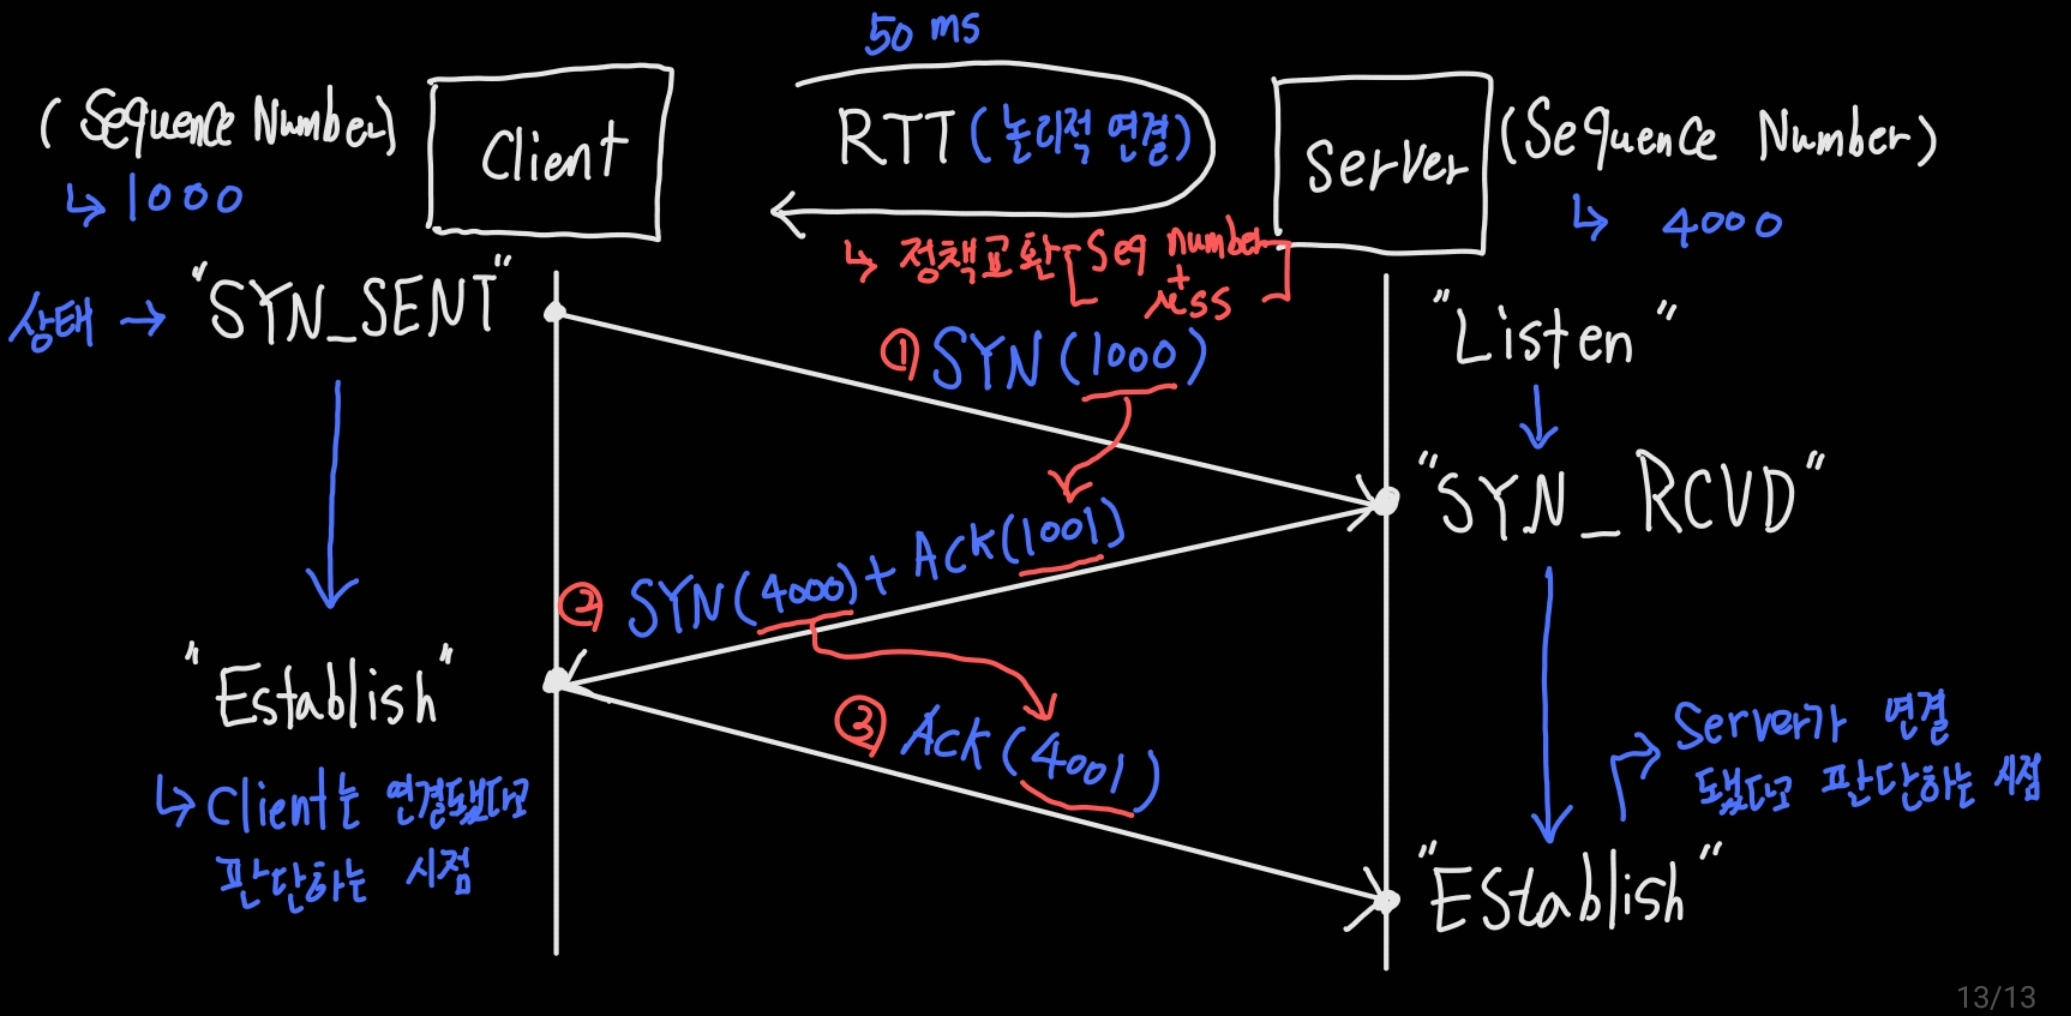
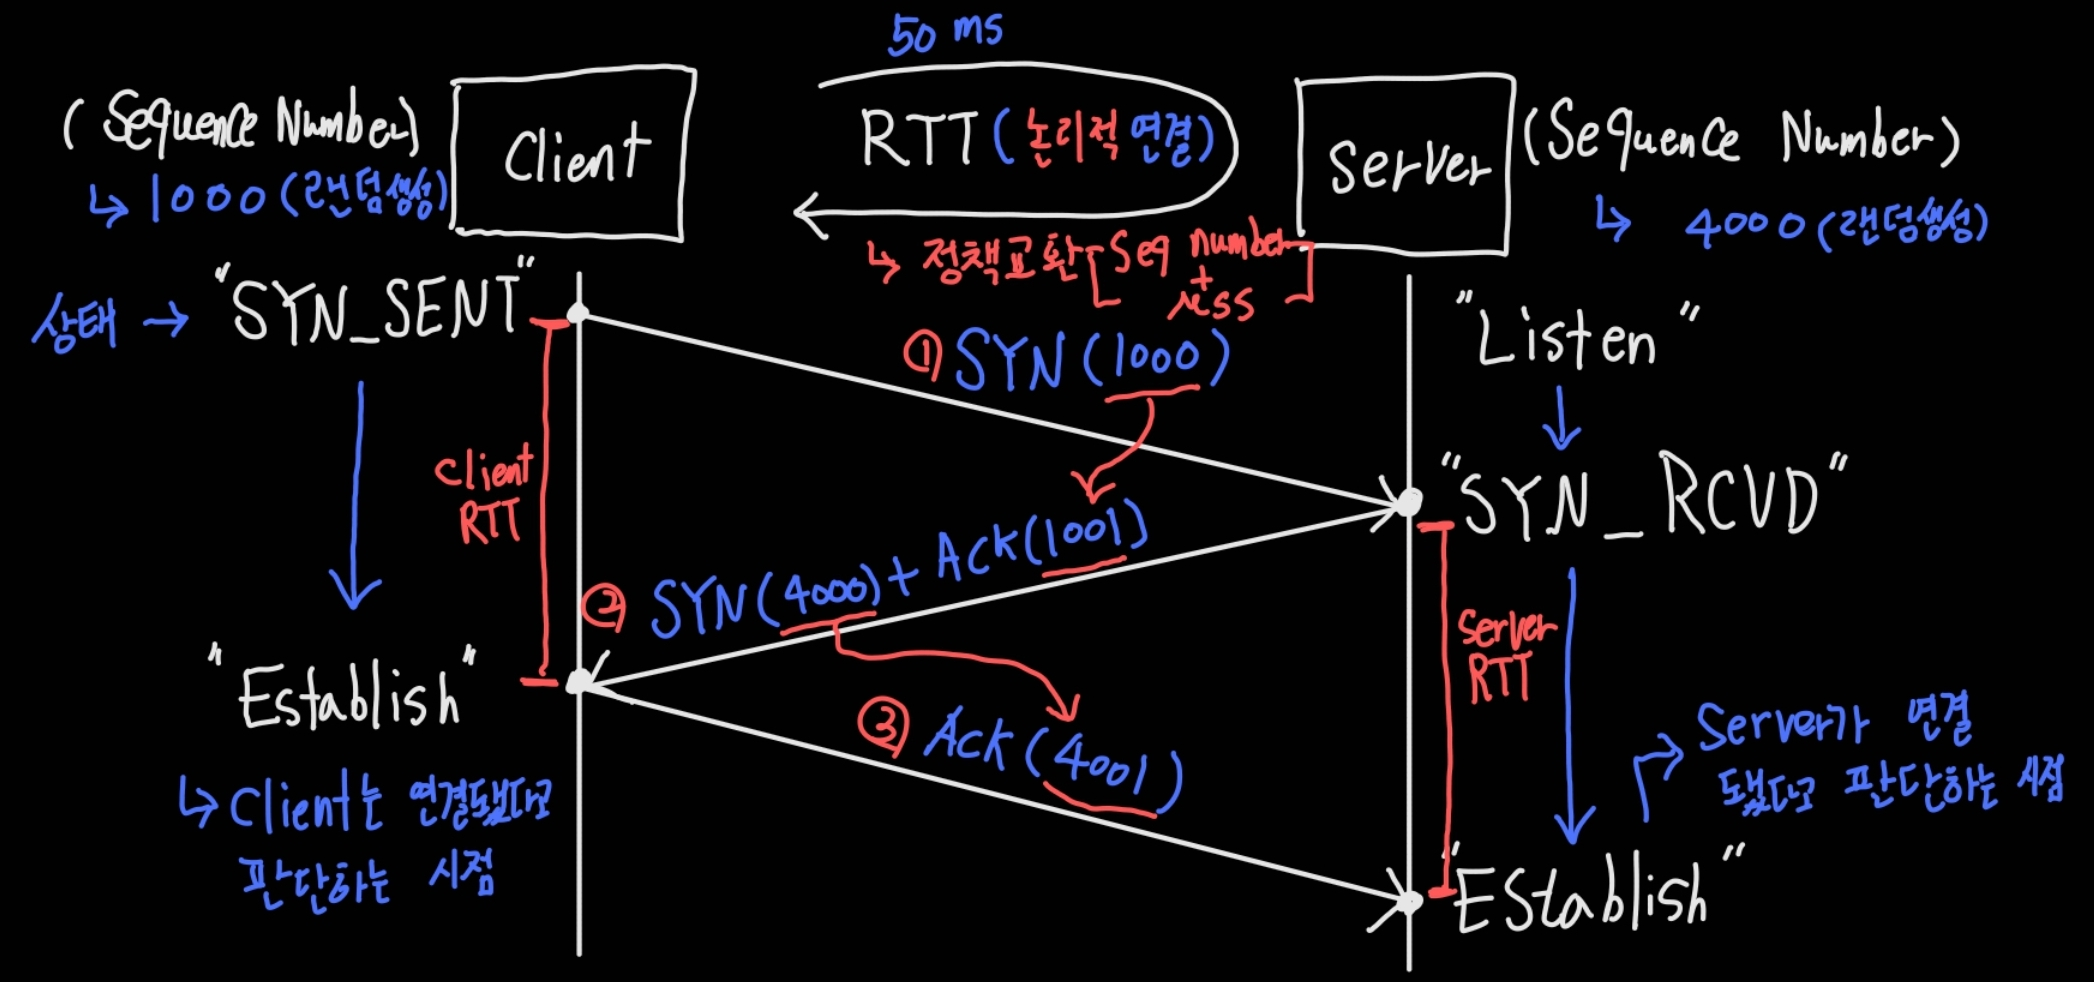
네트워크 기초 TCP 연결 내용 추가

Changed region(s): [[0.0, 0.0, 0.9889, 0.9776], [0.958, 0.9776, 0.9889, 1.0]]

diff --git a/Iot 와 네트워크/네트워크 핵심이론 기초(인프런_널널한 개발자)/내용정리.md b/Iot 와 네트워크/네트워크 핵심이론 기초(인프런_널널한 개발자)/내용정리.md
@@ -452,18 +452,22 @@
 
 1. Ping
    1. 유틸리티( 측정 도구 )
-   2. 특정 Host에 대한 RTT 를 측정할 목적으로 사용됨 
+   2. RTT를 측정하기 위한 가장 기본적인 툴 
+   3. 특정 Host에 대한 RTT 를 측정할 목적으로 사용됨 
+   4. 동작 방법
+      1. `Echo Request` 를 송신측으로 전송 ( 내용물은 그냥 `ABCDE....` 같은 문자열)
+      2. 받은 곳은 `Echo Reply` 를 날려 응답 ( 내용물은 Request 한것과 동일한 내용 )
 2. RTT ( Round Trip Time )
    1. **Ping 으로 소요된 시간** 
    2. 즉, 클라이언트 요청 후 서버의 응답을 받은 전체 시간을 뜻한다. 
-   3. ICMP 프로토콜 사용함 
+   3. **ICMP 프로토콜** 사용함 
    4. Dos 공격용으로 악용되기도 한다.   
 
 #### 6. TCP와 UDP
 
 1. TCP
-   1. 연결지향 (순서번호)
-   2. TCP Connection , TCP Session, Vertual Circule 으로 불린다. 
+   1. 연결지향 (순서번호)으로, `논리적` 이다 
+   2. `TCP Connection , TCP Session, Vertual Circuit` 으로 불린다. 
    3. 연결 + 상태(전이) 개념이 붙어다님 
    4. L4 수준의 식별자는 **Port 번호** 이다. 
    5. "Port 번호" == "서비스 식별자"
@@ -503,12 +507,15 @@
    1. **정책 = "Sequence number" + "MSS(Maxium Segment Size)"**
 2. TCP연결은 **논리적 연결**이다. 
    1. 직접 LAN 선같은걸로 연결하는것이 아닌 인터넷을 통한 연결이다. 
+   1. **연결시 SRTT 값을 계산**해 평균 대기 시간을 설정해 놓는다. 
 3. 시퀸스 번호 교환
    1. 클라이언트와 서버는 연결시마다 달라지는 값인 "Sequence Number" 를 각각 가지고 있다. 
       1. 연결 끊기면 다른 시퀸스 넘버로 변경됨 
    2. 만약 클라이언트가 `1000 의 시퀸스 번호`를 가진다면, 연결시 서버로 1000의 시퀸스 번호를 보낸다. 
    3. 서버는 잘 받았다는 의미로 `"자신의 시퀸스 번호 + 상태 시퀸서 번호 + 1"` 을 보낸다. 
       1. `+1` 의 의미는 해당 시퀸스 번호에 대한 잘 받았다는 의미이다. 
+      1. 여기서 TCP 연결이 착각이라는 것을 알 수 있다.
+      1. **이유는 서버로부터의 `SYN + ACK`은 클라이언트가 보낸 `SYN` 만 알 수 있다면 누구나 해당 컴퓨터와 TCP 연결이 가능하다는 것을 뜻하기 때문이다.** 
 4. 상태
    1. SYN_SENT : 연결 요청 
    2. Establish : 연결완료 
